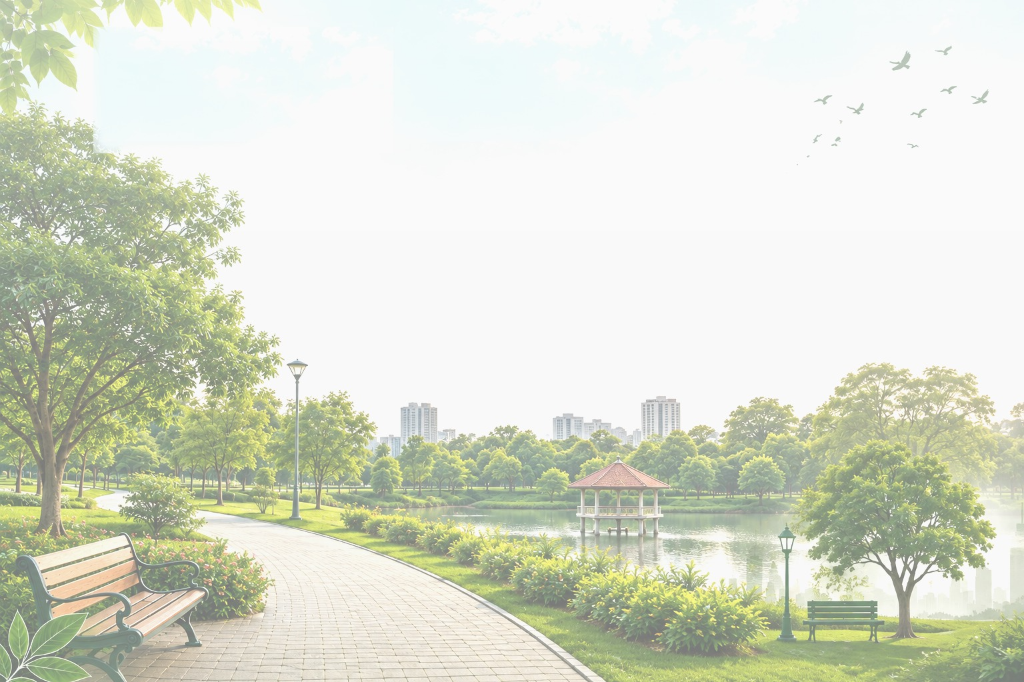
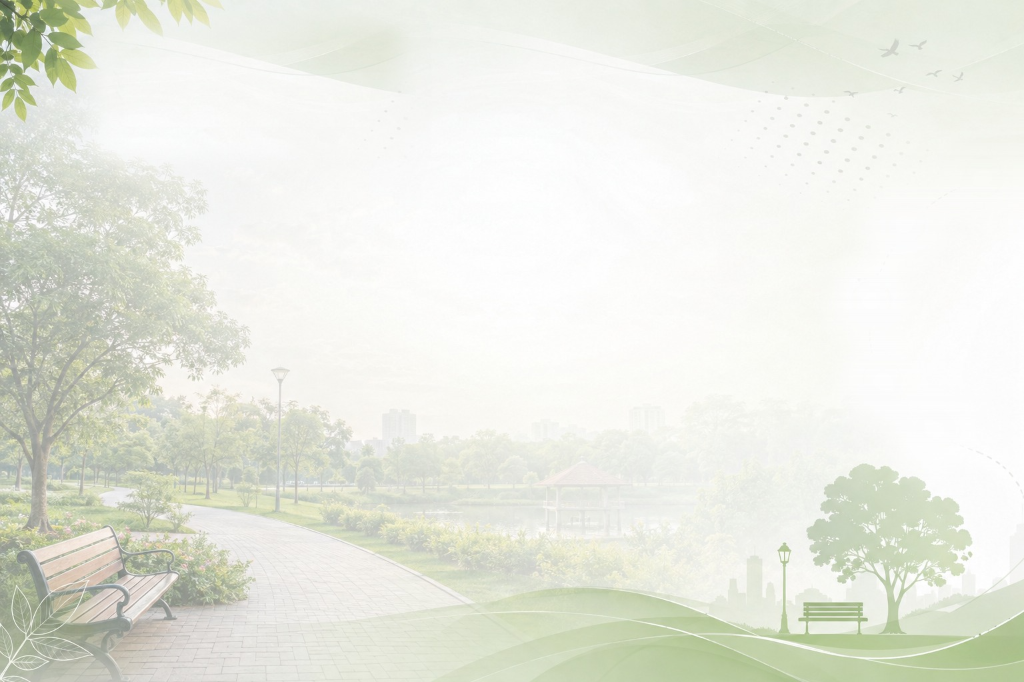
feat: add frontend pages, components, layouts, styles, and asset images for the park monitoring system

diff --git a/frontend/src/pages/Home.jsx b/frontend/src/pages/Home.jsx
@@ -1,19 +1,67 @@
-import { Link } from 'react-router-dom';
-import { Trees, AlertTriangle, Store, LogIn, ArrowRight } from 'lucide-react';
+import { useNavigate, Link } from 'react-router-dom';
+import { LogIn, ArrowRight } from 'lucide-react';
 import './Home.css';
 
-// Custom SVG for Meditation / Yoga / Event icon matching Image 2
-const YogaMeditationIcon = ({ size = 22 }) => (
+// Exact custom icons matching Image 2
+const ExploreParksIcon = ({ size = 22 }) => (
+  <svg width={size} height={size} viewBox="0 0 24 24" fill="none" stroke="currentColor" strokeWidth="2" strokeLinecap="round" strokeLinejoin="round">
+    <path d="M4 17v3M20 17v3M2 17h20M4 13h16" />
+    <path d="M7 13V8a3 3 0 0 1 6 0v5" />
+    <path d="M15 13V5a3 3 0 0 1 6 0v8" />
+  </svg>
+);
+
+const ReportIssuesIcon = ({ size = 22 }) => (
+  <svg width={size} height={size} viewBox="0 0 24 24" fill="none" stroke="currentColor" strokeWidth="2.2" strokeLinecap="round" strokeLinejoin="round">
+    <path d="M10.29 3.86L1.82 18a2 2 0 0 0 1.71 3h16.94a2 2 0 0 0 1.71-3L13.71 3.86a2 2 0 0 0-3.42 0z" />
+    <line x1="12" y1="9" x2="12" y2="13" />
+    <line x1="12" y1="17" x2="12.01" y2="17" />
+  </svg>
+);
+
+const AttendEventsIcon = ({ size = 22 }) => (
   <svg width={size} height={size} viewBox="0 0 24 24" fill="none" stroke="currentColor" strokeWidth="2.2" strokeLinecap="round" strokeLinejoin="round">
     <circle cx="12" cy="4" r="2" />
-    <path d="M12 8v5" />
-    <path d="M8 12l4 3 4-3" />
-    <path d="M4 17l4-2 4 4 4-4 4 2" />
-    <path d="M7 21h10" />
+    <path d="M12 7v5" />
+    <path d="M7 13l5 3 5-3" />
+    <path d="M4 18c2-2 5-1 8-1s6-1 8 1" />
+  </svg>
+);
+
+const BookStallIcon = ({ size = 22 }) => (
+  <svg width={size} height={size} viewBox="0 0 24 24" fill="none" stroke="currentColor" strokeWidth="2" strokeLinecap="round" strokeLinejoin="round">
+    <path d="M3 9l1.5-5h15L21 9" />
+    <path d="M3 9a3 3 0 0 0 6 0 3 3 0 0 0 6 0 3 3 0 0 0 6 0" />
+    <path d="M4 14v6a1 1 0 0 0 1 1h14a1 1 0 0 0 1-1v-6" />
+    <path d="M9 21v-4a1 1 0 0 1 1-1h4a1 1 0 0 1 1 1v4" />
   </svg>
 );
 
 const Home = () => {
+  const navigate = useNavigate();
+
+  const handleCardClick = (e, path) => {
+    e.preventDefault();
+    const stored = localStorage.getItem('user');
+    let loggedIn = false;
+    if (stored) {
+      try {
+        const u = JSON.parse(stored);
+        if (u && (u.token || u.id || u._id)) {
+          loggedIn = true;
+        }
+      } catch (err) {
+        loggedIn = false;
+      }
+    }
+
+    if (loggedIn) {
+      navigate(path);
+    } else {
+      navigate(`/login?redirect=${encodeURIComponent(path)}`);
+    }
+  };
+
   return (
     <div className="landing-dark-page">
       <div className="landing-dark-overlay"></div>
@@ -41,48 +89,48 @@ const Home = () => {
         {/* 4 Feature Cards Grid matching Image 2 */}
         <div className="landing-feature-grid">
           {/* Card 1: Explore Parks */}
-          <Link to="/parks" className="landing-card card-explore">
+          <div onClick={(e) => handleCardClick(e, '/parks')} className="landing-card card-explore" style={{ cursor: 'pointer' }}>
             <div className="landing-card-icon icon-explore">
-              <Trees size={22} />
+              <ExploreParksIcon size={22} />
             </div>
             <div className="landing-card-text">
               <h4>Explore Parks</h4>
               <p>View park details, facilities and amenities.</p>
             </div>
-          </Link>
+          </div>
 
           {/* Card 2: Report Issues */}
-          <Link to="/complaint" className="landing-card card-report">
+          <div onClick={(e) => handleCardClick(e, '/complaint')} className="landing-card card-report" style={{ cursor: 'pointer' }}>
             <div className="landing-card-icon icon-report">
-              <AlertTriangle size={22} />
+              <ReportIssuesIcon size={22} />
             </div>
             <div className="landing-card-text">
               <h4>Report Issues</h4>
               <p>If you notice any problem in the park, raise a complaint instantly.</p>
             </div>
-          </Link>
+          </div>
 
           {/* Card 3: Attend Events */}
-          <Link to="/events" className="landing-card card-events">
+          <div onClick={(e) => handleCardClick(e, '/events')} className="landing-card card-events" style={{ cursor: 'pointer' }}>
             <div className="landing-card-icon icon-events">
-              <YogaMeditationIcon size={22} />
+              <AttendEventsIcon size={22} />
             </div>
             <div className="landing-card-text">
               <h4>Attend Events</h4>
               <p>Join yoga sessions and other park events by registering.</p>
             </div>
-          </Link>
+          </div>
 
           {/* Card 4: Book Stall */}
-          <Link to="/events" className="landing-card card-stall">
+          <div onClick={(e) => handleCardClick(e, '/events')} className="landing-card card-stall" style={{ cursor: 'pointer' }}>
             <div className="landing-card-icon icon-stall">
-              <Store size={22} />
+              <BookStallIcon size={22} />
             </div>
             <div className="landing-card-text">
               <h4>Book Stall</h4>
               <p>Reserve a stall space in front of parks for your business.</p>
             </div>
-          </Link>
+          </div>
         </div>
 
         {/* Primary Action Button */}

diff --git a/frontend/src/components/LiveCameraCaptureModal.jsx b/frontend/src/components/LiveCameraCaptureModal.jsx
@@ -384,89 +384,11 @@ export default function LiveCameraCaptureModal({
             >
               <Crosshair size={13} /> {locLoading ? '...' : 'Live GPS'}
             </button>
-            <button 
-              type="button" 
-              className="btn-toolbar-search"
-              onClick={() => {
-                setShowSearch(!showSearch);
-                setCustomPlaceInput(placeName);
-                setCustomAddrInput(fullAddress);
-              }}
-            >
-              <Search size={13} /> {showSearch ? 'Close' : 'Edit / Search'}
-            </button>
+
           </div>
         </div>
 
-        {/* Location Search & Direct Edit Drawer */}
-        {showSearch && (
-          <div className="camera-search-drawer">
-            <div style={{ display: 'flex', flexDirection: 'column', gap: '8px' }}>
-              <form onSubmit={async (e) => {
-                await handleSearchSubmit(e);
-                if (capturedData && searchQuery.trim()) {
-                  reStampPhotoWithNewLocation(searchQuery.trim(), searchQuery.trim());
-                }
-              }} className="camera-search-form">
-                <input 
-                  type="text"
-                  className="camera-search-input"
-                  placeholder="Search any park, landmark or area (e.g. Cubbon Park, MG Road)..."
-                  value={searchQuery}
-                  onChange={(e) => setSearchQuery(e.target.value)}
-                  autoFocus
-                />
-                <button type="submit" className="btn-camera-search-submit" disabled={isSearching}>
-                  {isSearching ? 'Locating...' : 'Search'}
-                </button>
-              </form>
 
-              <div style={{ display: 'flex', alignItems: 'center', gap: '8px', marginTop: '4px' }}>
-                <span style={{ fontSize: '0.75rem', color: '#94a3b8', fontWeight: 600 }}>Or type custom address:</span>
-              </div>
-
-              <div style={{ display: 'grid', gridTemplateColumns: '1fr 1fr', gap: '6px' }}>
-                <input 
-                  type="text" 
-                  placeholder="Area, City (e.g. Coles Park, Bengaluru)" 
-                  value={customPlaceInput} 
-                  onChange={(e) => setCustomPlaceInput(e.target.value)}
-                  style={{ padding: '0.4rem 0.6rem', background: '#1e293b', border: '1px solid #334155', color: '#f8fafc', borderRadius: '6px', fontSize: '0.8rem' }}
-                />
-                <input 
-                  type="text" 
-                  placeholder="Full Street Details" 
-                  value={customAddrInput} 
-                  onChange={(e) => setCustomAddrInput(e.target.value)}
-                  style={{ padding: '0.4rem 0.6rem', background: '#1e293b', border: '1px solid #334155', color: '#f8fafc', borderRadius: '6px', fontSize: '0.8rem' }}
-                />
-              </div>
-              <button 
-                type="button" 
-                onClick={() => {
-                  if (customPlaceInput || customAddrInput) {
-                    const chosenPlace = customPlaceInput || customAddrInput;
-                    const chosenAddr = customAddrInput || customPlaceInput;
-                    setPlaceName(chosenPlace);
-                    setFullAddress(chosenAddr);
-                    setShowSearch(false);
-                    if (capturedData) {
-                      reStampPhotoWithNewLocation(chosenPlace, chosenAddr);
-                    }
-                  }
-                }}
-                style={{ padding: '0.45rem', backgroundColor: '#059669', color: 'white', border: 'none', borderRadius: '6px', fontWeight: 700, fontSize: '0.82rem', cursor: 'pointer' }}
-              >
-                Apply Custom Location on Photo
-              </button>
-            </div>
-            {locError && (
-              <div style={{ color: '#ef4444', fontSize: '0.8rem', marginTop: '6px' }}>
-                {locError}
-              </div>
-            )}
-          </div>
-        )}
 
         <div className="live-camera-body">
           {cameraError ? (
@@ -524,17 +446,7 @@ export default function LiveCameraCaptureModal({
               <button className="btn-camera-retake" onClick={handleRetake}>
                 <RefreshCw size={16} /> Retake
               </button>
-              <button 
-                type="button" 
-                onClick={() => {
-                  setShowSearch(true);
-                  setCustomPlaceInput(placeName);
-                  setCustomAddrInput(fullAddress);
-                }}
-                style={{ padding: '0.65rem 1rem', background: '#334155', color: '#f8fafc', border: '1px solid #475569', borderRadius: '8px', fontWeight: 600, fontSize: '0.85rem', cursor: 'pointer' }}
-              >
-                ✏ Edit Location Text
-              </button>
+
               <button className="btn-camera-confirm" onClick={handleConfirm} disabled={processing}>
                 <Check size={18} /> {processing ? 'Applying...' : 'Use This Photo'}
               </button>

diff --git a/frontend/src/pages/Login.jsx b/frontend/src/pages/Login.jsx
@@ -1,5 +1,5 @@
 import { useState } from 'react';
-import { Link, useNavigate } from 'react-router-dom';
+import { Link, useNavigate, useSearchParams } from 'react-router-dom';
 import { Mail, Lock, Eye, EyeOff, LogIn, ArrowRight, Sprout } from 'lucide-react';
 import { useGoogleLogin } from '@react-oauth/google';
 import ForgotPasswordModal from '../components/ForgotPasswordModal';
@@ -7,6 +7,8 @@ import './Login.css';
 
 const Login = () => {
   const navigate = useNavigate();
+  const [searchParams] = useSearchParams();
+  const redirectPath = searchParams.get('redirect');
   const [showPassword, setShowPassword] = useState(false);
   const [showForgotModal, setShowForgotModal] = useState(false);
   const [email, setEmail] = useState('');
@@ -27,6 +29,11 @@ const Login = () => {
       localStorage.setItem('govUser', JSON.stringify(userData));
     }
     
+    if (redirectPath) {
+      navigate(redirectPath);
+      return;
+    }
+
     switch (userData.role) {
       case 'Admin':
         navigate('/admin-dashboard');
@@ -118,7 +125,7 @@ const Login = () => {
   });
 
   return (
-    <div className="login-dark-page" style={{ backgroundImage: "url('/landing_bg_leaves.jpg?v=5')" }}>
+    <div className="login-dark-page" style={{ backgroundImage: "url('/landing_dark_leaves.jpg?v=100')" }}>
       <div className="login-dark-overlay"></div>
 
       <div className="login-main-wrapper">

diff --git a/frontend/src/index.css b/frontend/src/index.css
@@ -65,7 +65,7 @@ html, body, #root, .app-layout {
 html {
   min-height: 100%;
   width: 100%;
-  background: url('/user_public_bg.png?v=4') no-repeat center center fixed !important;
+  background: url('/user_public_bg.png?v=12') no-repeat center center fixed !important;
   background-size: cover !important;
   background-color: #f8fafc !important;
 }
@@ -77,7 +77,7 @@ body {
   max-width: 100vw;
   margin: 0;
   padding: 0;
-  background: url('/user_public_bg.png?v=4') no-repeat center center fixed !important;
+  background: url('/user_public_bg.png?v=12') no-repeat center center fixed !important;
   background-size: cover !important;
   background-color: transparent !important;
   padding-top: var(--sat);

diff --git a/frontend/src/pages/Events.css b/frontend/src/pages/Events.css
@@ -4,12 +4,9 @@
   min-height: calc(100vh - 64px);
   display: flex;
   flex-direction: column;
-  margin: calc(-1 * var(--spacing-xl, 2rem));
-  padding: 1.5rem 2rem 3rem 2rem;
-  background: url('/login_bg_v2.jpg') no-repeat center center fixed;
-  background-size: cover;
+  padding: 0.5rem 0 2rem 0;
+  background: transparent !important;
   position: relative;
-  overflow: hidden;
   box-sizing: border-box;
   width: 100%;
 }

diff --git a/frontend/src/pages/Feedback.css b/frontend/src/pages/Feedback.css
@@ -4,12 +4,9 @@
   min-height: calc(100vh - 64px);
   display: flex;
   flex-direction: column;
-  margin: calc(-1 * var(--spacing-xl, 2rem));
-  padding: 1.5rem 2rem;
-  background: url('/login_bg_v2.jpg') no-repeat center center fixed;
-  background-size: cover;
+  padding: 0.5rem 0 2rem 0;
+  background: transparent !important;
   position: relative;
-  overflow: hidden;
   box-sizing: border-box;
 }
 

diff --git a/frontend/src/pages/Register.jsx b/frontend/src/pages/Register.jsx
@@ -54,7 +54,7 @@ const Register = () => {
   };
 
   return (
-    <div className="register-dark-page" style={{ backgroundImage: "url('/landing_bg_leaves.jpg?v=5')" }}>
+    <div className="register-dark-page" style={{ backgroundImage: "url('/landing_dark_leaves.jpg?v=100')" }}>
       <div className="register-dark-overlay"></div>
 
       <div className="register-main-wrapper">

diff --git a/frontend/src/pages/SubmitComplaint.css b/frontend/src/pages/SubmitComplaint.css
@@ -2,10 +2,8 @@
 
 .complaint-page {
   min-height: calc(100vh - 64px);
-  margin: calc(-1 * var(--spacing-xl, 2rem));
-  padding: 1.5rem 2rem 3rem 2rem;
-  background: url('/login_bg_v2.jpg') no-repeat center center fixed;
-  background-size: cover;
+  padding: 0.5rem 0 2rem 0;
+  background: transparent !important;
   box-sizing: border-box;
   position: relative;
 }

diff --git a/frontend/src/layouts/MainLayout.css b/frontend/src/layouts/MainLayout.css
@@ -2,7 +2,7 @@
   display: flex;
   flex-direction: column;
   min-height: 100vh;
-  background: url('/user_public_bg.png?v=6') no-repeat center top fixed !important;
+  background: url('/user_public_bg.png?v=12') no-repeat center center fixed !important;
   background-size: cover !important;
   background-color: #f8fafc !important;
   width: 100%;

diff --git a/frontend/src/pages/Home.css b/frontend/src/pages/Home.css
@@ -10,7 +10,7 @@
   align-items: center;
   justify-content: center;
   background-color: #03140a;
-  background-image: url('/landing_bg_v2.jpg');
+  background-image: url('/landing_dark_leaves.jpg?v=100');
   background-repeat: no-repeat;
   background-position: center center;
   background-size: cover;
